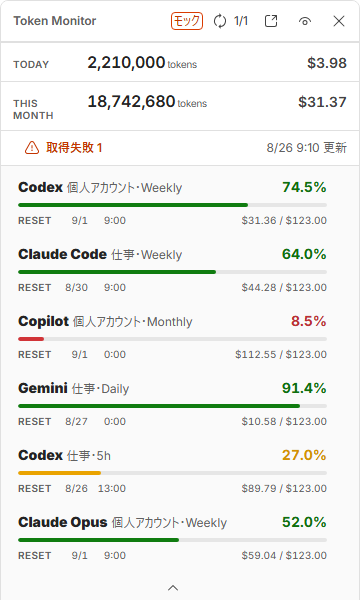
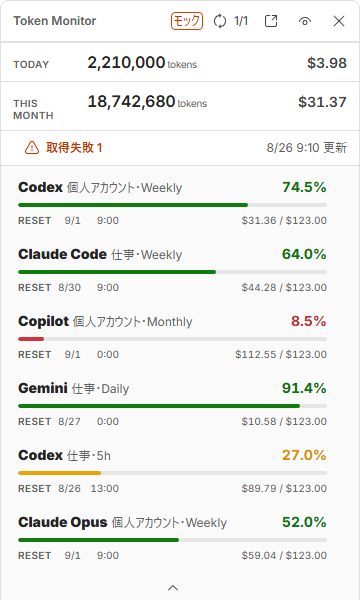
Tighten compact reset spacing

diff --git a/frontend/src/windows/compact/CompactWindow.tsx b/frontend/src/windows/compact/CompactWindow.tsx
@@ -231,9 +231,9 @@ const useStyles = makeStyles({
   },
   resetLine: {
     display: "grid",
-    gridTemplateColumns: "36px 32px 36px auto minmax(0, 1fr)",
+    gridTemplateColumns: "5ch 4ch 5ch auto minmax(0, 1fr)",
     alignItems: "baseline",
-    columnGap: tokens.spacingHorizontalXXS,
+    columnGap: "1ch",
     minWidth: 0,
     color: tokens.colorNeutralForeground3,
     fontSize: tokens.fontSizeBase100,
